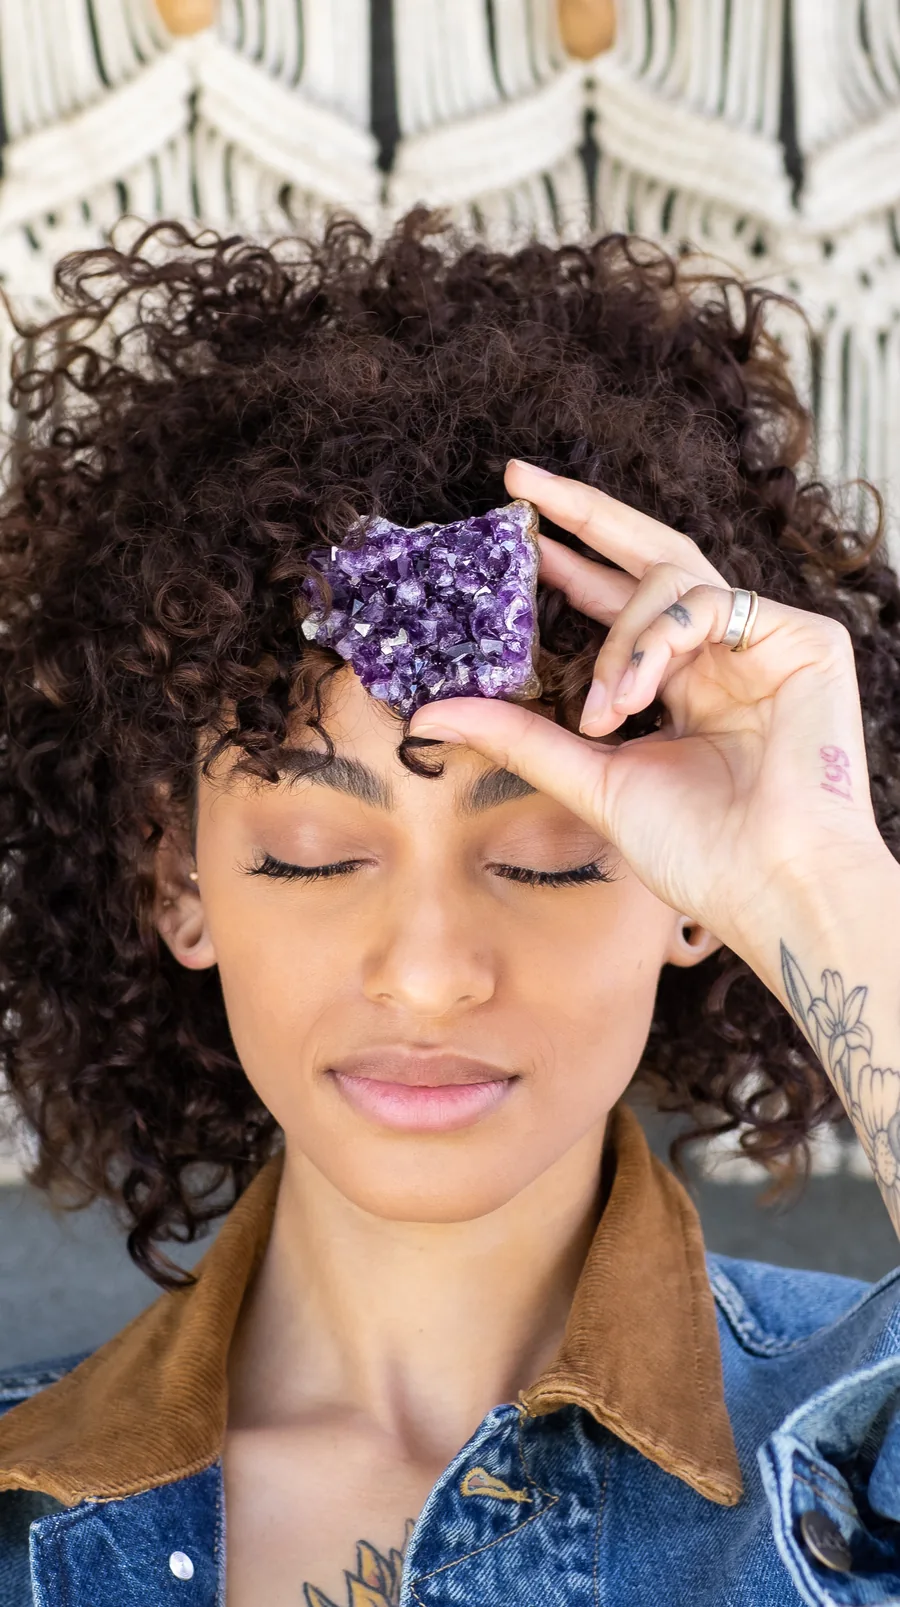
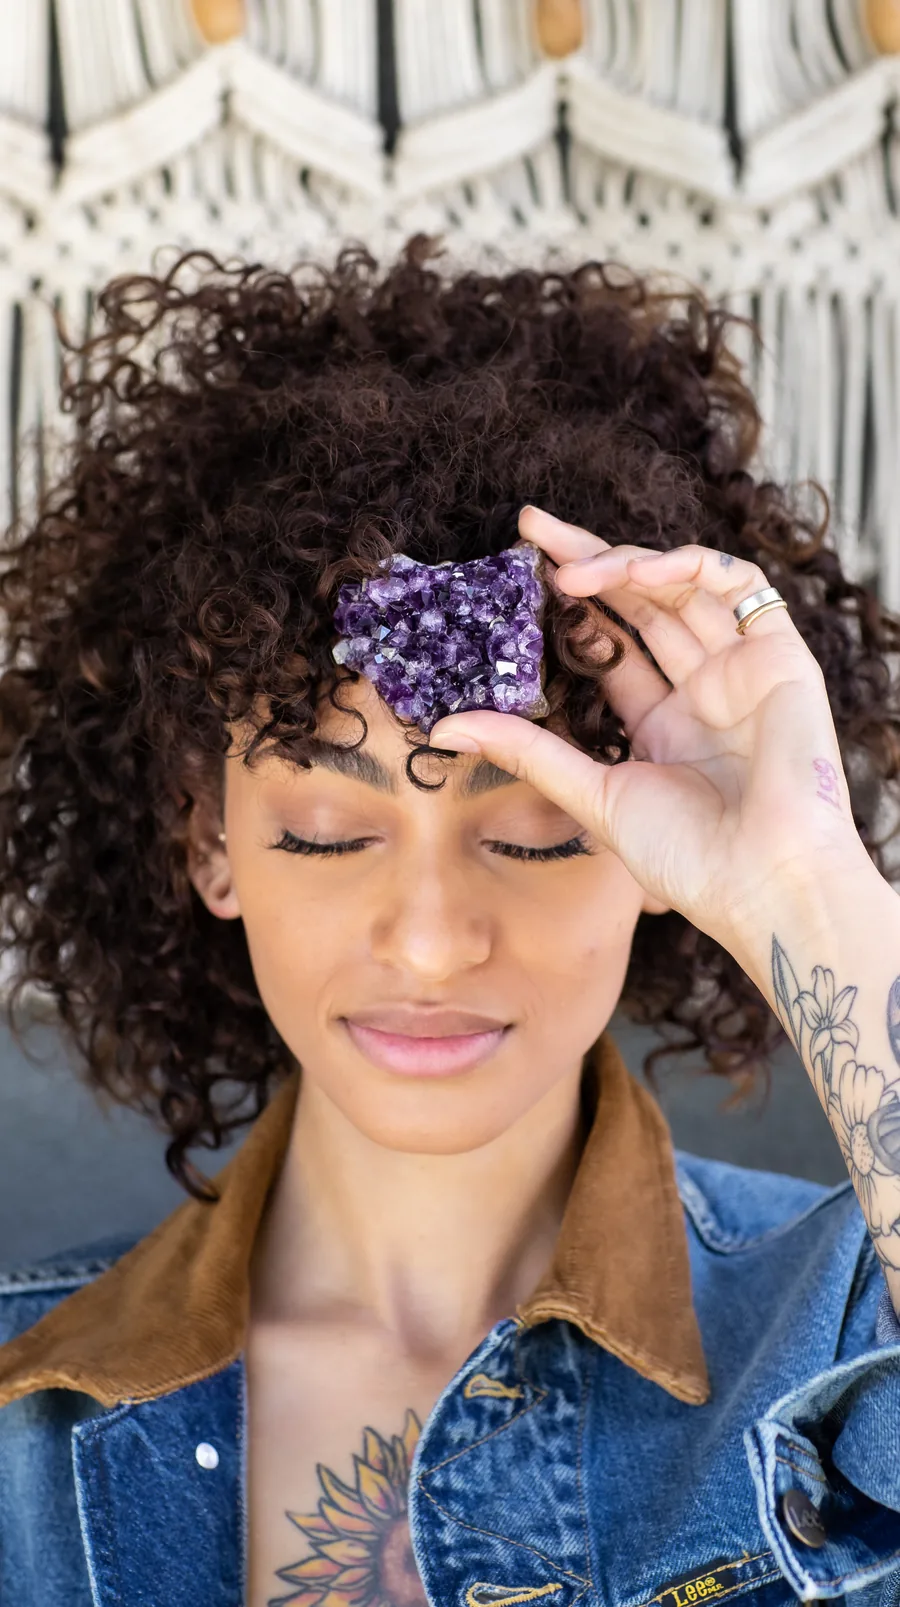
On a desktop the face wins: every crop re-cut to put the eyes near 40%, and the strip is nine
Clay, on the live desktop hero: "not liking the crops", "this is not
great", "u can cut the stones out to sacrafice". The 2:1 band had been
cut to show the arc of quartz and the face landed at the bottom, with
the laugh under the frequency marquee.

THE RULE NOW. On a desktop the eyes sit around 40% of the band and
whatever is above them is what gets cut. Every photograph was rendered
at its band with the headline zone marked before a number was written:

  happy     26 -> 42   the arc's side stones stay, the top goes
  med       62 -> 55
  amethyst  49 -> 52   AND a new source: the landscape file (A74I3586)
                       had the face in its bottom third with no room to
                       move; the portrait from the same shoot (A74I3580),
                       same gesture, same wall, has it. Both sets re-cut.
  mono      50 -> 58   her face is left of centre; higher so the chin
                       clears the headline
  pendant   44 -> 32   the eyes at 35%, the pendant still in at the foot
  knit      18 -> 22
  duo, stacks, wrist   unchanged

The phone crops are untouched - Clay: "i like it on mobile".

THE STRIP. "remove the last 3 options, the ones with no faces" and then
"keep this one too" for the bracelets on the sand. hands and geode are
gone with their files (16); wrist stays. Nine now: happy, med, amethyst,
mono, pendant, knit, duo, stacks, wrist.

Verified: the page serves happy at 50% 42%; amethyst serves the
[…]

diff --git a/index.html b/index.html
@@ -292,7 +292,7 @@ html{scroll-padding-top:96px;}
 .hero{--hero-ink:#FFFFFF;--hero-soft:#E9E0D3;--hero-sub:#F0C79C;
   --hero-accent:#E8B183;--hero-shadow:0 2px 26px rgba(12,8,4,.5);}
 .hero-shot{position:absolute;inset:0;width:100%;height:100%;object-fit:cover;
-  object-position:50% 26%;z-index:0;}
+  object-position:50% 42%;z-index:0;}
 /* the crop only ever slides sideways, and that is the axis that decides
    whether the device sits clear of the words. On a phone the frame is much
    narrower than the source, so it lifts to keep the product in view */
@@ -2598,28 +2598,24 @@ document.querySelectorAll('.reel[data-video]').forEach(function(r){
 
   /* in the order Clay ranked them; happy is the page's own (Sept 2) */
   var HEROES = {
-    happy:    { base: 'em-hero-happy',    pos: '50% 26%', posMobile: '50% 36%',
+    happy:    { base: 'em-hero-happy',    pos: '50% 42%', posMobile: '50% 36%',
       alt: 'A woman lying on teal, laughing, an arc of clear quartz laid around her head' },
-    med:      { base: 'em-hero-med',      pos: '50% 62%', posMobile: '50% 42%',
+    med:      { base: 'em-hero-med',      pos: '50% 55%', posMobile: '50% 42%',
       alt: 'Someone sitting in meditation on a mat, a wall of tall cacti behind them' },
-    amethyst: { base: 'em-hero-amethyst', pos: '50% 49%', posMobile: '50% 100%',
+    amethyst: { base: 'em-hero-amethyst', pos: '50% 52%', posMobile: '50% 100%',
       alt: 'A woman in a denim jacket holding an amethyst cluster to her forehead, eyes closed' },
-    mono:     { base: 'em-hero-mono',     pos: '50% 50%', posMobile: '50% 100%',
+    mono:     { base: 'em-hero-mono',     pos: '50% 58%', posMobile: '50% 100%',
       alt: 'A woman in a black top holding an amethyst cluster to her forehead, eyes closed, on white' },
-    pendant:  { base: 'em-hero-pendant',  pos: '50% 44%', posMobile: '50% 0%',
+    pendant:  { base: 'em-hero-pendant',  pos: '50% 32%', posMobile: '50% 0%',
       alt: 'A woman in a denim jacket looking down at the pendant she is holding, on pale blue' },
-    knit:     { base: 'em-hero-knit',     pos: '50% 18%', posMobile: '50% 0%',
+    knit:     { base: 'em-hero-knit',     pos: '50% 22%', posMobile: '50% 0%',
       alt: 'A woman in a knit top holding an amethyst cluster to her forehead, on white' },
     duo:      { base: 'em-hero-duo',      pos: '50% 0%',  posMobile: '50% 0%',
       alt: 'The founders, Heather Askinosie and Timmi Jandro, standing in a field of wildflowers' },
     stacks:   { base: 'em-hero-stacks',   pos: '50% 38%', posMobile: '50% 30%',
       alt: 'A woman resting her chin on her hands, stacked crystal bracelets on both wrists' },
-    hands:    { base: 'em-hero-hands',    pos: '50% 50%', posMobile: '50% 40%',
-      alt: 'Three hands meeting on the sand, crystal bracelets on each wrist' },
     wrist:    { base: 'em-hero-wrist',    pos: '50% 50%', posMobile: '50% 42%',
-      alt: 'A wrist wearing crystal bracelets, resting on a towel on the sand' },
-    geode:    { base: 'em-hero-geode',    pos: '50% 46%', posMobile: '50% 40%',
-      alt: 'A hand reaching for an amethyst geode on a wooden dresser by a window' }
+      alt: 'A wrist wearing crystal bracelets, resting on a towel on the sand' }
   };
 
   /* a shared link wins over the remembered pick, and becomes it */
